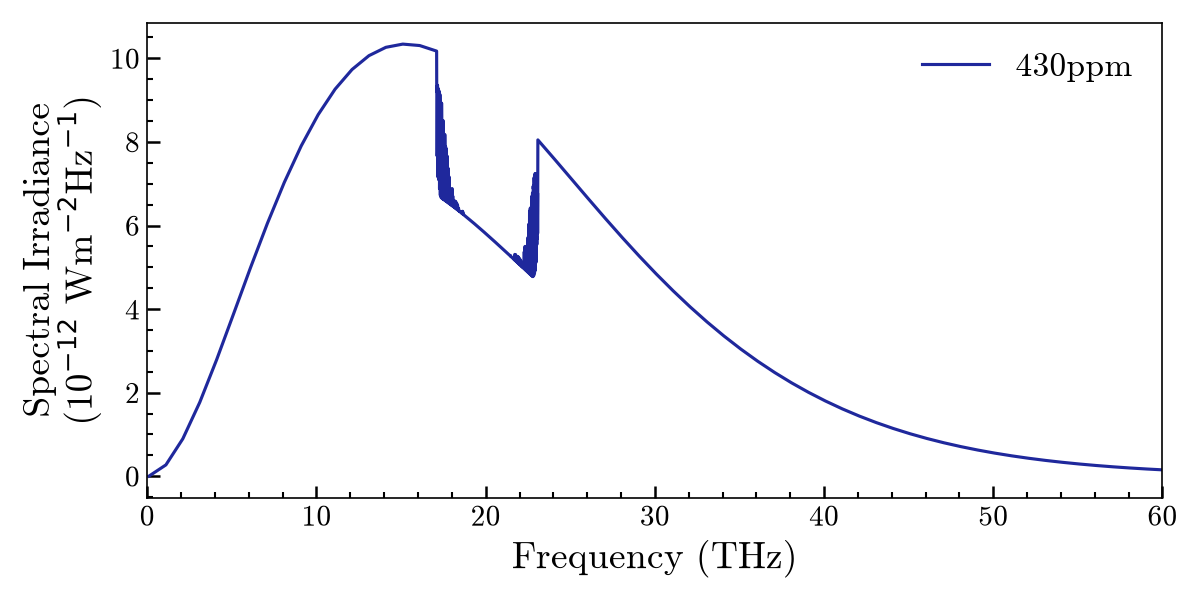
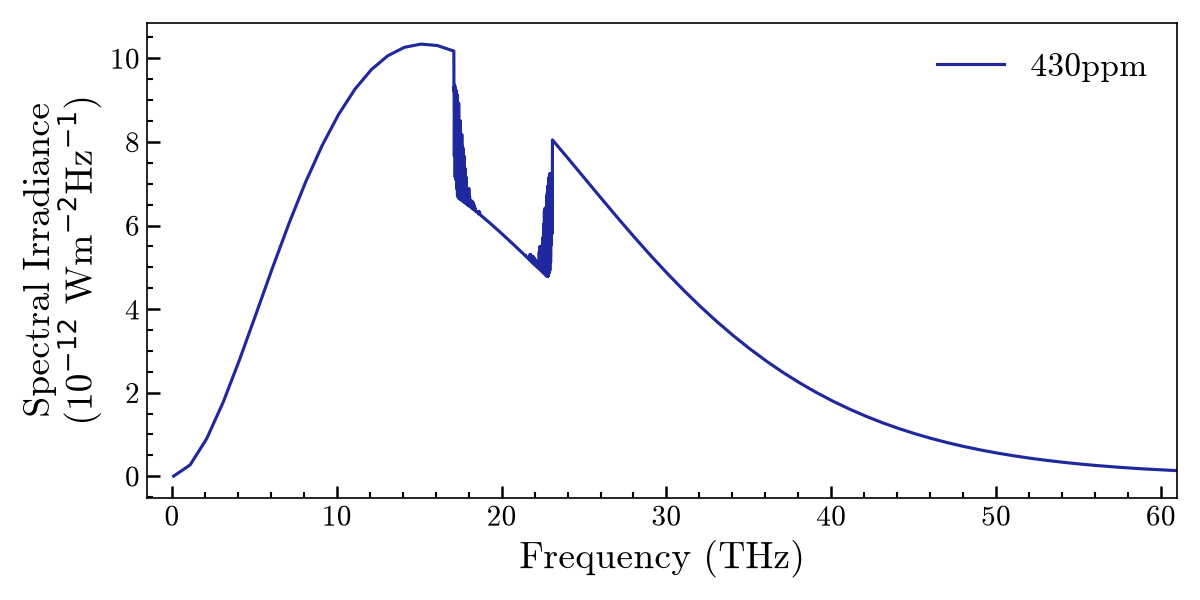
IMPROVED MODEL

diff --git a/src/Atmospheric Energy Balance.py b/src/Atmospheric Energy Balance.py
@@ -16,8 +16,6 @@ no_altitude_steps = 1
 albedo = average_albedo
 CO2_ppm = 430 * 10 ** (-6) # 430ppm is current
 atm_pressure = standard_earth_pressure
-atm_temp = standard_earth_temp
-atm_number_density_CO2 = CO2_ppm * atm_pressure/(boltzmann*atm_temp)
 average_mass_air_molecule = 4.81 * 10**(-26)
 
 
@@ -53,12 +51,12 @@ if modtran_csv.exists():
 dz = max_altitude/no_altitude_steps"""
 
 HITRAN_data = pd.read_csv(
-    Path(__file__).with_name("CO2Min.csv"),
+    Path(__file__).with_name("CO2_wider.csv"),
     usecols=[0, 1, 2],
     header=0,
 )
 df_HITRAN = pd.DataFrame(HITRAN_data)
-df_HITRAN_filtered = df_HITRAN[(df_HITRAN.iloc[:, 1] > 10**(-25))] # filtering out data that wont have much of an effect to make code faster
+df_HITRAN_filtered = df_HITRAN[(df_HITRAN.iloc[:, 1] > 10**(-35))] # filtering out data that wont have much of an effect to make code faster
 wavenumber = np.array(df_HITRAN_filtered[df_HITRAN_filtered.columns[0]].values.tolist()) * 10**2 # converts to /m
 absorption_frequencies = wavenumber*(c) # converts wavenumber in /m to frequency in Hz
 spectral_line_intensity = np.array(df_HITRAN_filtered[df_HITRAN_filtered.columns[1]].values.tolist()) * (10**(-2)) #converting units from whatever cursed units HITRAN is using to SI units
@@ -89,6 +87,8 @@ for k in range(len(trial_temps)):
     spectral_radiance_array = np.empty(length_of_HITRAN_filtered)
     z_0 = (boltzmann * earth_temp) / (g * average_mass_air_molecule)
     trop_temp = earth_temp + 0.00649 * z_0 * math.log((1 - 0.75), 10)
+    atm_temp = earth_temp # yep this is a poor model assuming isothermal
+    atm_number_density_CO2 = CO2_ppm * atm_pressure/(boltzmann*atm_temp)
     for i in range(length_of_HITRAN_filtered):
         optical_depth = atm_number_density_CO2 * cross_section_matrix[i] * z_0
         exp_optical_depth = np.exp( -1 * optical_depth)
@@ -124,6 +124,8 @@ while abs(error) > tolerance:
     spectral_radiance_array = np.empty(length_of_HITRAN_filtered)
     z_0 = (boltzmann * earth_temp) / (g * average_mass_air_molecule)
     trop_temp = earth_temp + 0.00649 * z_0 * math.log((1 - 0.75), 10)
+    atm_temp = earth_temp # yep this is a poor model assuming isothermal
+    atm_number_density_CO2 = CO2_ppm * atm_pressure/(boltzmann*atm_temp)
     for i in range(length_of_HITRAN_filtered):
         optical_depth = atm_number_density_CO2 * cross_section_matrix[i] * z_0
         exp_optical_depth = np.exp( -1 * optical_depth)
@@ -168,9 +170,9 @@ from IPython.core.display import HTML
 mpl.rcParams['font.family'] = 'cmr10'
 fig, ax = plt.subplots(figsize=(8, 4), dpi=150)
 
-spectral_irradiance_array = spectral_irradiance_array / (4 * (np.pi) * ((average_earth_radius+max_altitude)**2))
-power_per_freq_1 = SI_1
-power_per_freq_3 = SI_3
+spectral_irradiance_array = spectral_irradiance_array / (4 * (np.pi) * ((average_earth_radius+max_altitude)**2)) # for power density, remove the division by (4 * (np.pi) * ((average_earth_radius+max_altitude)**2))
+power_per_freq_1 = SI_1 # for power density, multiple by (4 * (np.pi) * ((average_earth_radius+max_altitude)**2))
+power_per_freq_3 = SI_3 # for power density, multiple by (4 * (np.pi) * ((average_earth_radius+max_altitude)**2))
 power_per_freq = np.append(power_per_freq_1, spectral_irradiance_array)
 power_per_freq = np.append(power_per_freq, power_per_freq_3)
 freq_sections = np.append(frequencies_section_1, absorption_frequencies)
@@ -195,7 +197,7 @@ ax.tick_params(axis="both", which="minor", direction="in", length=3, width=1)
 ax.minorticks_on()
 #ax.grid(True, which="major", linestyle="--", alpha=0.5)
 ax.legend(fontsize=16, facecolor = "#1F289C", framealpha = 0)
-ax.set_xlim(0, 60)
+ax.set_xlim(-1.5, 61)
 fig.tight_layout()
 
 """# The MODTRAN output spans many orders of magnitude, so a log scale keeps the comparison readable.
